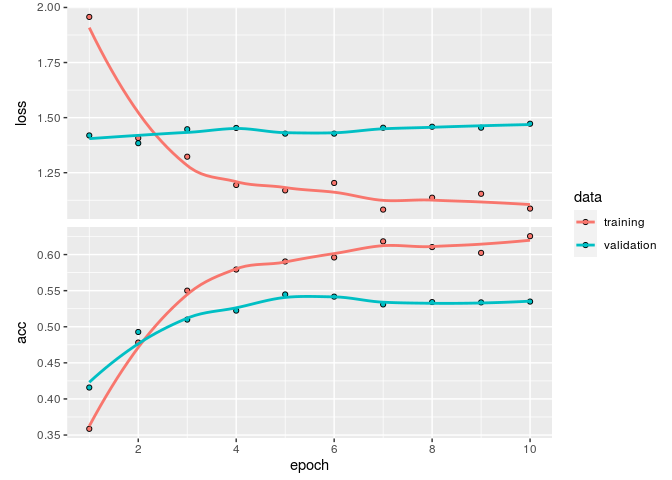
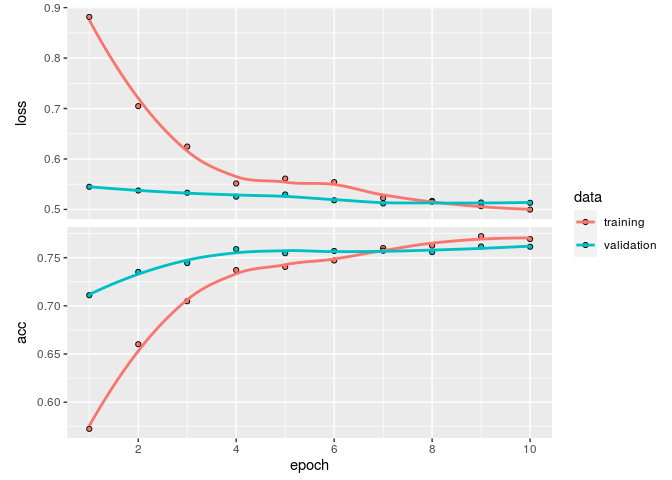
Correction of the loss function and the function of the last layer, more suitable for the task. Immediate (and quite logical) improvement of the perfomance of the Resnet50 on thevalidation set

diff --git a/resnet50-lr-finder-and-cyclic-lr-with-r.md b/resnet50-lr-finder-and-cyclic-lr-with-r.md
@@ -1,5 +1,4 @@
-An R Markdown document converted from
-“resnet50-lr-finder-and-cyclic-lr-with-r.ipynb”
+Plant Pathology 2020 - FGVC7 with R and Keras
 ================
 
 # Keras with R
@@ -13,18 +12,20 @@ offers/projects, or for academic research. So in this kernel, I relearn
 it with the book *Deep Learning with R*. For the moment my aim is to
 have something that work from A to Z, and iterate over it.
 
-Also, I publish this kernel mostly because I realized that I **can’t use
-GPU on R kernel**, with Keras. [Issue
-here](https://www.kaggle.com/product-feedback/142790#804580).
+The data of this Rmarkdown came from the competition [Plant
+Pathology 2020 -
+FGVC7](https://www.kaggle.com/c/plant-pathology-2020-fgvc7). In this
+notebook I also reimplement a learning rate finder and the one cycle
+policy.
 
 ## To do list :
 
   - bigger images
-  - load best model after training \(\checkmark\)
-  - lr finder \(\checkmark\)
-  - add data augmentation \(\checkmark\)
-  - plot the data augmentation \(\checkmark\)
-  - implement one cycle policy ? \(\checkmark\)
+  - load best model after training :heavy\_check\_mark:
+  - lr finder :heavy\_check\_mark:
+  - add data augmentation - \[x\]
+  - plot the data augmentation - \[x\]
+  - implement one cycle policy ? - \[x\]
   - visualization of what the convnets learn
   - fine
     tuning
@@ -285,8 +286,8 @@ str(batch)
 ```
 
     ## List of 2
-    ##  $ : num [1:32, 1:224, 1:224, 1:3] 90.1 73.1 130.7 81.5 57.9 ...
-    ##  $ : num [1:32, 1:4] 0 0 0 0 0 1 0 1 1 0 ...
+    ##  $ : num [1:32, 1:224, 1:224, 1:3] 82.8 167.3 164.5 106.3 196.5 ...
+    ##  $ : num [1:32, 1:4] 1 0 0 0 0 0 1 1 0 1 ...
 
 # Import pre-trained model
 
@@ -702,42 +703,29 @@ But it gave quite poor results. Actually I have tried to look in other
 kernels, without finding clear consensus. Finally I will add some layer
 in a similar way on [how it is done in
 fast\_ai](https://docs.fast.ai/vision.learner.html#create_head). Since
-there is a “funny” pooling operation, I will had a max pooling, because
-we are most interresting to know if there is a rust or scab, that
-something on “average”. Or maybe I am wronng ?
+there is a “funny” pooling operation, The AdaptiveConcatPool2d (adaptive
+average pooling and adaptive max pooling), I will use a max pooling,
+because we are most interresting to know if there is a rust or scab,
+that something on “average”.
+
+One of the most important aspect of deep learning is to set up a good
+loss function and last layer activation. Since it is a **multiclass**
+and **multi-label** classification (plants can have several diseases), I
+will use a **sigmoid** activation for the last layer and a **binary
+crossentropy** as the loss function.
 
 ``` r
 model <- keras_model_sequential() %>% 
         conv_base %>% 
         layer_global_max_pooling_2d() %>% 
-        #layer_flatten() %>%
         layer_batch_normalization() %>%
         layer_dropout(rate=0.5) %>%
-        layer_dense(units=4, activation="softmax")
+        layer_dense(units=4, activation="sigmoid")
 ```
 
 ``` r
-model
+#model
 ```
-
-    ## Model
-    ## ________________________________________________________________________________
-    ## Layer (type)                        Output Shape                    Param #     
-    ## ================================================================================
-    ## resnet50 (Model)                    (None, 7, 7, 2048)              23587712    
-    ## ________________________________________________________________________________
-    ## global_max_pooling2d_1 (GlobalMaxPo (None, 2048)                    0           
-    ## ________________________________________________________________________________
-    ## batch_normalization_1 (BatchNormali (None, 2048)                    8192        
-    ## ________________________________________________________________________________
-    ## dropout_1 (Dropout)                 (None, 2048)                    0           
-    ## ________________________________________________________________________________
-    ## dense_1 (Dense)                     (None, 4)                       8196        
-    ## ================================================================================
-    ## Total params: 23,604,100
-    ## Trainable params: 12,292
-    ## Non-trainable params: 23,591,808
-    ## ________________________________________________________________________________
 
 ## Learning rate finder
 
@@ -806,7 +794,7 @@ plot(l_rate, type="b", pch=16, cex=0.1, xlab="iteration", ylab="learning rate")
 ``` r
 model %>% compile(
     optimizer=optimizer_rmsprop(lr=lr_max),
-    loss="categorical_crossentropy",
+    loss="binary_crossentropy",
     metrics='accuracy'
 )
 ```
@@ -831,13 +819,13 @@ data <- data.frame("Learning_rate" = lr_hist, "Loss" = callback_log_acc_lr$loss)
 head(data)
 ```
 
-    ##   Learning_rate     Loss
-    ## 1  1.149757e-08 2.963216
-    ## 2  1.321941e-08 2.605625
-    ## 3  1.519911e-08 2.170684
-    ## 4  1.747528e-08 2.284032
-    ## 5  2.009233e-08 3.198197
-    ## 6  2.310130e-08 2.024627
+    ##   Learning_rate      Loss
+    ## 1  1.149757e-08 1.0512961
+    ## 2  1.321941e-08 1.0422401
+    ## 3  1.519911e-08 0.9401696
+    ## 4  1.747528e-08 1.0747244
+    ## 5  2.009233e-08 1.1087093
+    ## 6  2.310130e-08 1.0642153
 
 Learning rate vs loss
 :
@@ -931,19 +919,11 @@ Cyclic_LR <- function(iteration=1:32000, base_lr=1e-5, max_lr=1e-3, step_size=20
 }
 ```
 
-Parameters are similar to v6, just playing around to explore the
-possibility. In version 11 the floor parameters is not n but n/2. Based
-on the graph of v6, 10 epoch are enought to see if there is overfitting
-or not, and if the learning of the network does not fall to early.
-
 ``` r
 n=40
 nb_epochs=10
 n_iter<-n*nb_epochs
 ```
-
-Exp range since triangular lead to a quick overfitting
-:
 
 ``` r
 l_rate <- Cyclic_LR(iteration=1:n_iter, base_lr=1e-5, max_lr=1e-3, step_size=floor(n/2),
@@ -964,13 +944,13 @@ model <- keras_model_sequential() %>%
         layer_global_max_pooling_2d() %>% 
         layer_batch_normalization() %>%
         layer_dropout(rate=0.5) %>%
-        layer_dense(units=4, activation="softmax")
+        layer_dense(units=4, activation="sigmoid")
 ```
 
 ``` r
 model %>% compile(
     optimizer=optimizer_rmsprop(lr=1e-5),
-    loss="categorical_crossentropy",
+    loss="binary_crossentropy",
     metrics='accuracy'
 )
 ```
